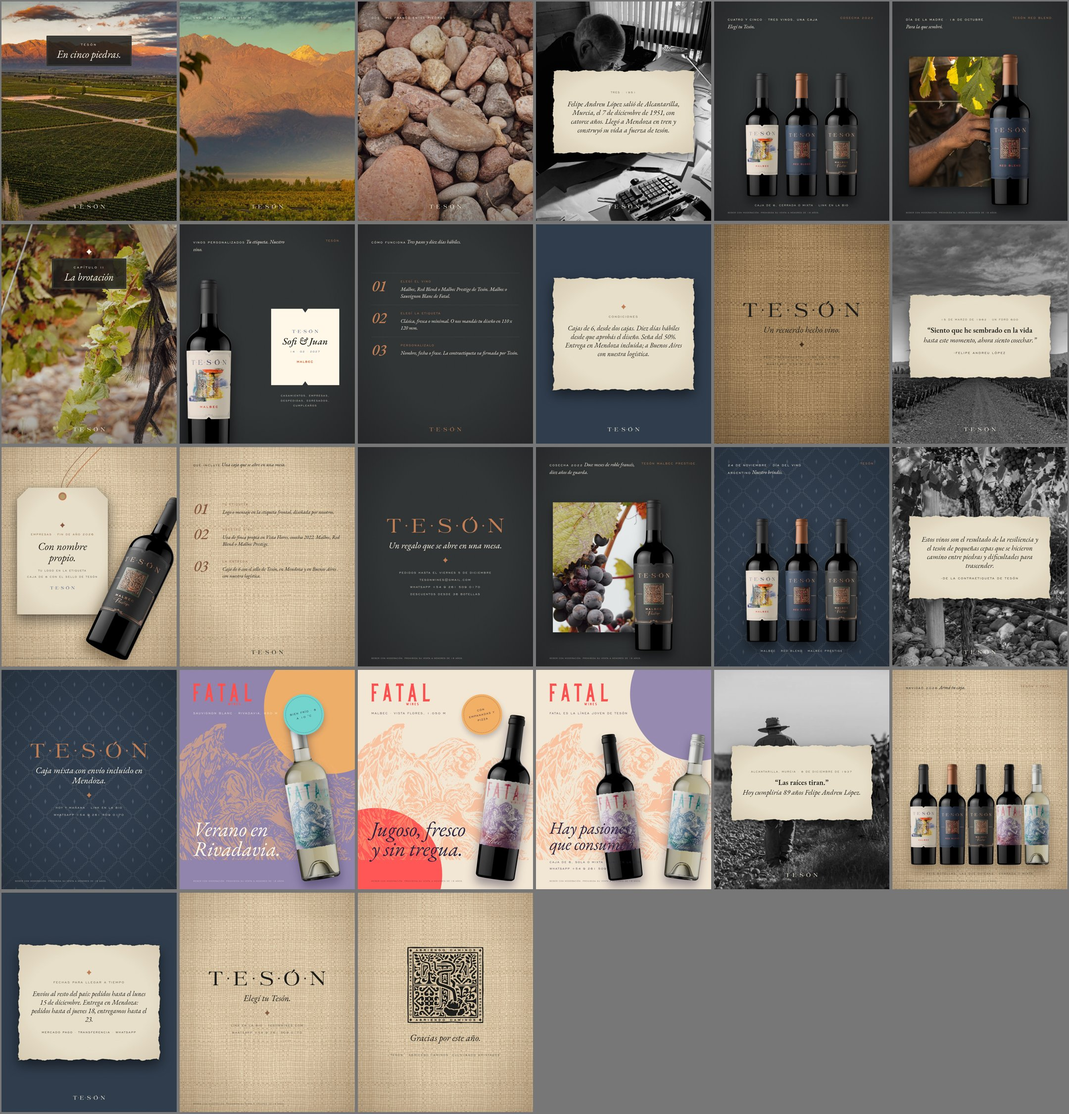
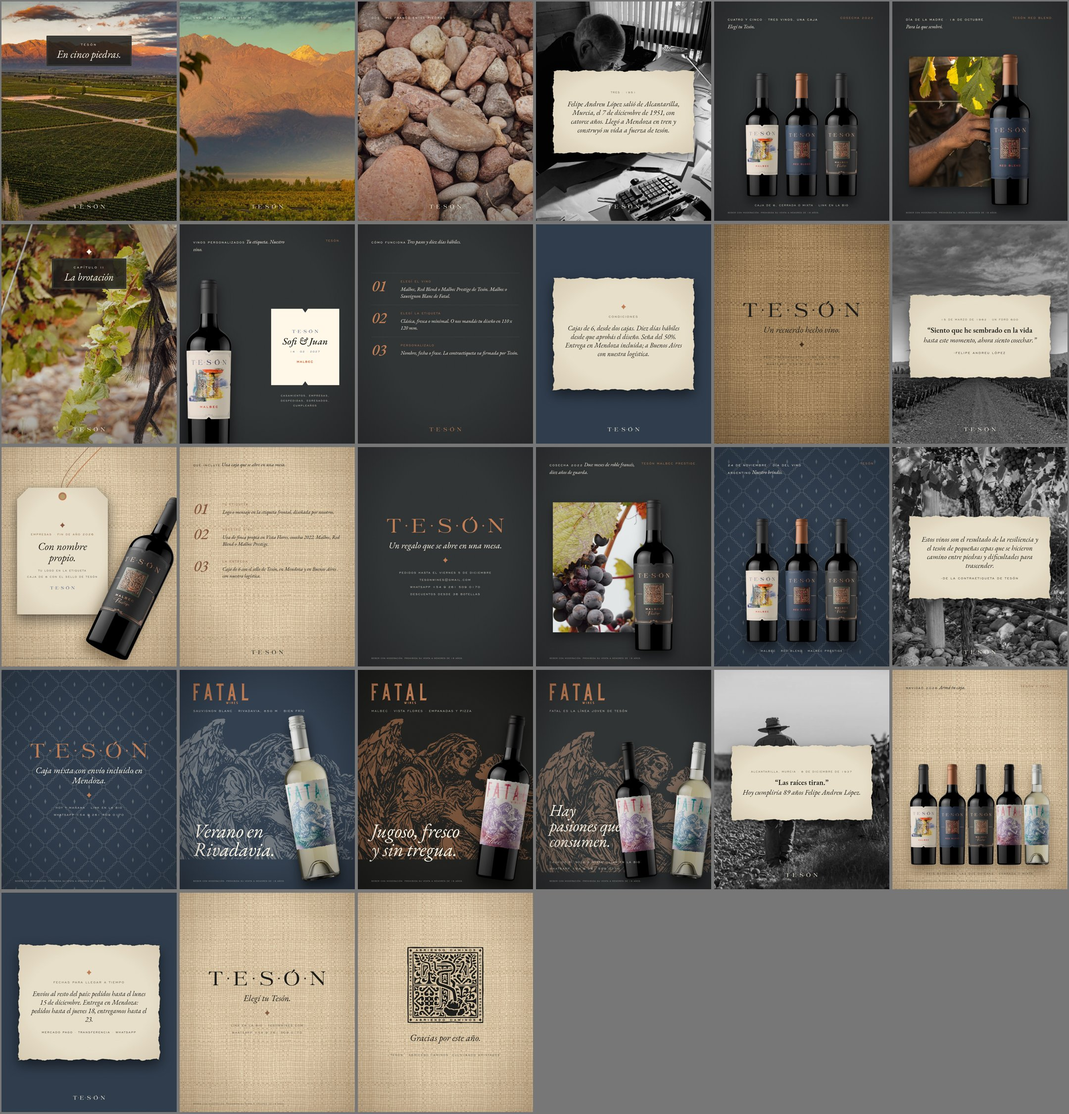
Tesón: Fatal en la paleta de la marca
El ángel y el logotipo de Fatal recoloreados en cobre y crema sobre noche,
tinta o carbón con textura; botella inclinada y titular grande. Se quitan
los bloques de color y los stickers.

Claude-Session: https://claude.ai/code/session_01WVF3yVjWa2YLnmgYLZbUr9

Changed region(s): [[0.1551, 0.5911, 0.6824, 0.8089]]

diff --git a/teson/plan-teson.html b/teson/plan-teson.html
@@ -240,7 +240,7 @@ Beber con moderación. Prohibida su venta a menores de 18 años.
     <div class="week"><div class="date"><b>11 nov</b>Semana 6 · Empresas · Carrusel</div><div><h3>Regalos de fin de año con nombre propio</h3><p>Caja de 6 con la etiqueta de la empresa. Pedidos hasta el viernes 5 de diciembre. Propuesta en 24 horas.</p><div class="thumbs"><img src="posts/s06-regalos-fin-de-ano-1.jpg" alt="Regalos con nombre propio"><img src="posts/s06-regalos-fin-de-ano-2.jpg" alt="Qué incluye"><img src="posts/s06-regalos-fin-de-ano-3.jpg" alt="Contacto"></div></div></div>
     <div class="week"><div class="date"><b>18 nov</b>Semana 7 · Vinos · Foto</div><div><h3>Doce meses de roble</h3><p>Malbec Prestige: 3.000 botellas, cosecha manual, roble francés, diez años de guarda.</p><div class="thumbs"><img src="posts/s07-doce-meses-de-roble-1.jpg" alt="Malbec Prestige"></div></div></div>
     <div class="week"><div class="date"><b>24 nov</b>Semana 8 · Marca · Reel + carrusel</div><div><h3>Día del Vino Argentino</h3><p>Brindis en video con los tres vinos, la frase de la casa y caja mixta con envío incluido en Mendoza por dos días.</p><div class="thumbs"><img src="posts/s08-dia-del-vino-argentino-1.jpg" alt="Los tres vinos sobre carbón"><img src="posts/s08-dia-del-vino-argentino-2.jpg" alt="Pequeñas cepas entre piedras"><img src="posts/s08-dia-del-vino-argentino-3.jpg" alt="Caja mixta"></div></div></div>
-    <div class="week"><div class="date"><b>2 dic</b>Semana 9 · Fatal · Carrusel</div><div><h3>Fatal: verano en Rivadavia</h3><p>La línea joven con su propio lenguaje: bloques de color, el ángel de la etiqueta, stickers. Sauvignon Blanc, Malbec y "Hay pasiones que consumen".</p><div class="thumbs"><img src="posts/s09-verano-en-rivadavia-1.jpg" alt="Fatal Sauvignon Blanc"><img src="posts/s09-verano-en-rivadavia-2.jpg" alt="Fatal Malbec"><img src="posts/s09-verano-en-rivadavia-3.jpg" alt="Hay pasiones que consumen"></div></div></div>
+    <div class="week"><div class="date"><b>2 dic</b>Semana 9 · Fatal · Carrusel</div><div><h3>Fatal: verano en Rivadavia</h3><p>La línea joven en la misma paleta, un poco más disruptiva: fondo oscuro con textura, el ángel de la etiqueta en grande en cobre o crema, botella inclinada y titular grande. Sauvignon Blanc, Malbec y "Hay pasiones que consumen".</p><div class="thumbs"><img src="posts/s09-verano-en-rivadavia-1.jpg" alt="Fatal Sauvignon Blanc"><img src="posts/s09-verano-en-rivadavia-2.jpg" alt="Fatal Malbec"><img src="posts/s09-verano-en-rivadavia-3.jpg" alt="Hay pasiones que consumen"></div></div></div>
     <div class="week"><div class="date"><b>8 dic</b>Semana 10 · Historia · Foto</div><div><h3>8 de diciembre de 1937</h3><p>El cumpleaños de Felipe Andreu López. En blanco y negro, como pide el manual. "Las raíces tiran." Firmado por Felipe.</p><div class="thumbs"><img src="posts/s10-8-de-diciembre-de-1937-1.jpg" alt="Las raíces tiran"></div></div></div>
     <div class="week"><div class="date"><b>16 dic</b>Semana 11 · Venta · Carrusel</div><div><h3>Armá tu caja</h3><p>Navidad: caja mixta de Tesón y Fatal. Envíos al interior hasta el 15, Mendoza hasta el 18.</p><div class="thumbs"><img src="posts/s11-arma-tu-caja-1.jpg" alt="Los cinco vinos"><img src="posts/s11-arma-tu-caja-2.jpg" alt="Fechas"><img src="posts/s11-arma-tu-caja-3.jpg" alt="Elegí tu Tesón"></div></div></div>
     <div class="week"><div class="date"><b>23 dic</b>Semana 12 · Comunidad · Reel</div><div><h3>Gracias por este año</h3><p>Lo mejor del trimestre en 15 s, cierre de año y anticipo de la cosecha 2027. Firmado por Felipe.</p><div class="thumbs"><img src="posts/s12-gracias-1.jpg" alt="Sello de Tesón: Gracias por este año"></div></div></div>

diff --git a/teson/contenido/build_posts.py b/teson/contenido/build_posts.py
@@ -289,35 +289,39 @@ def T_tag(s):
 
 
 def T_fatal(s):
-    """Fatal, la línea joven: bloque de color, el ángel de la etiqueta, botella inclinada, titular grande en itálica y un sticker."""
+    """Fatal, la línea joven, en la paleta de Tesón: fondo oscuro con textura, el ángel de la etiqueta en grande
+    (cobre o crema), botella inclinada, titular grande en itálica y un anillo de cobre con el dato."""
     v = s.get("variant", "sb")
     if v == "sb":
-        bgc, ink, circ, circ_pos, sticker_c = FAT["lav"], CREMA, FAT["orange"], "right:-260px;top:-180px", FAT["teal"]
+        bgc, angel_c, angel_op = NOCHE, CREMA, .30
         bottles = s.get("bottles") or [{"img": "fatal-sauvignon.webp", "tilt": -9, "h": 1020, "right": 90, "bottom": 60}]
     elif v == "mb":
-        bgc, ink, circ, circ_pos, sticker_c = FAT["cream"], FAT["ink"], FAT["red"], "left:-300px;bottom:-320px", FAT["orange"]
+        bgc, angel_c, angel_op = TINTA, COBRE, .55
         bottles = s.get("bottles") or [{"img": "fatal-malbec.webp", "tilt": 8, "h": 1020, "right": 90, "bottom": 60}]
     else:
-        bgc, ink, circ, circ_pos, sticker_c = FAT["cream"], FAT["ink"], FAT["lav"], "right:-320px;top:-260px", FAT["red"]
-        bottles = s.get("bottles") or [{"img": "fatal-malbec.webp", "tilt": -7, "h": 900, "right": 420, "bottom": 60},
-                                       {"img": "fatal-sauvignon.webp", "tilt": 7, "h": 900, "right": 60, "bottom": 60}]
-    angel = f'<img src="{img("fatal-angel.webp")}" alt="" style="position:absolute;left:{s.get("angel_x",-120)}px;top:{s.get("angel_y",330)}px;width:1300px;opacity:{s.get("angel_op",.55)};{"filter:hue-rotate(-18deg) saturate(1.3)" if v!="sb" else ""}">'
-    bots = "".join(f'<img src="{img(b["img"])}" alt="" style="position:absolute;right:{b["right"]}px;bottom:{b["bottom"]}px;height:{b["h"]}px;width:auto;transform:rotate({b["tilt"]}deg);transform-origin:50% 90%;filter:drop-shadow(0 40px 30px rgba(43,35,64,.45))">' for b in bottles)
-    sticker = ""
-    if s.get("sticker"):
-        sticker = (f'<div class="abs" style="left:{s.get("sticker_x",640)}px;top:{s.get("sticker_y",150)}px;width:250px;height:250px;border-radius:50%;background:{sticker_c};transform:rotate(-12deg);display:flex;align-items:center;justify-content:center;text-align:center;padding:30px;box-shadow:0 20px 30px rgba(43,35,64,.25)">'
-                   f'<div class="abs" style="inset:12px;border-radius:50%;border:2px dashed rgba(43,35,64,.55)"></div>'
-                   f'<div class="sc" style="font-size:20px;line-height:1.5;color:{FAT["ink"]};letter-spacing:.18em">{html.escape(s["sticker"])}</div></div>')
-    lines = "".join(f'<div class="sc" style="font-size:20px;color:{ink};opacity:.85">{html.escape(l)}</div>' for l in s.get("lines", []))
+        bgc, angel_c, angel_op = CARBON, "#D2A283", .42
+        bottles = s.get("bottles") or [{"img": "fatal-malbec.webp", "tilt": -6, "h": 840, "right": 330, "bottom": 70},
+                                       {"img": "fatal-sauvignon.webp", "tilt": 6, "h": 840, "right": 40, "bottom": 70}]
+    ink = CREMA
+    angel_img = {CREMA: "fatal-angel-crema.png", COBRE: "fatal-angel-cobre.png"}.get(angel_c, "fatal-angel-claro.png")
+    angel = (f'<img src="{img(angel_img)}" alt="" style="position:absolute;left:{s.get("angel_x",-140)}px;top:{s.get("angel_y",300)}px;width:1340px;opacity:{s.get("angel_op",angel_op)}">')
+    bots = "".join(f'<img src="{img(b["img"])}" alt="" style="position:absolute;right:{b["right"]}px;bottom:{b["bottom"]}px;height:{b["h"]}px;width:auto;transform:rotate({b["tilt"]}deg);transform-origin:50% 90%;filter:drop-shadow(0 44px 34px rgba(0,0,0,.6))">' for b in bottles)
+    ring = ""
+    if s.get("ring"):
+        ring = (f'<div class="abs" style="left:{s.get("sticker_x",84)}px;top:{s.get("sticker_y",300)}px;width:210px;height:210px;border-radius:50%;border:2px solid {COBRE};transform:rotate(-10deg);display:flex;align-items:center;justify-content:center;text-align:center;padding:28px">'
+                f'<div class="abs" style="inset:10px;border-radius:50%;border:1px solid rgba(193,126,85,.5)"></div>'
+                f'<div class="sc" style="font-size:19px;line-height:1.5;color:{COBRE};letter-spacing:.2em">{html.escape(s["sticker"])}</div></div>')
+    lines = "".join(f'<div class="sc" style="font-size:20px;color:rgba(255,247,232,.85)">{html.escape(l)}</div>' for l in s.get("lines", []))
     parts = [f'<div class="abs" style="inset:0;background:{bgc}"></div>',
-             f'<div class="abs" style="{circ_pos};width:820px;height:820px;border-radius:50%;background:{circ};opacity:.95"></div>',
-             angel, bots, sticker,
-             f'<img src="{img("fatal-logo.png")}" alt="" style="position:absolute;left:84px;top:84px;width:360px">',
-             f'<div class="abs sc" style="left:84px;top:250px;color:{ink};opacity:.85">{html.escape(s.get("sc",""))}</div>',
-             f'<div class="abs" style="left:84px;bottom:{s.get("hl_bottom",190)}px;max-width:{s.get("hl_w",620)}px;font-style:italic;font-size:{s.get("hl_size",128)}px;line-height:.95;color:{ink};letter-spacing:-.01em">{s["it"]}</div>',
+             '<div class="abs" style="inset:0;background:url(noise.svg);opacity:.14;mix-blend-mode:overlay"></div>',
+             '<div class="abs" style="inset:0;background:repeating-linear-gradient(0deg,rgba(255,255,255,.025) 0 1px,transparent 1px 3px),repeating-linear-gradient(90deg,rgba(255,255,255,.02) 0 1px,transparent 1px 3px)"></div>',
+             angel, bots, ring,
+             f'<img src="{img("fatal-logo-cobre.png")}" alt="" style="position:absolute;left:84px;top:84px;width:340px">',
+             f'<div class="abs sc" style="left:84px;top:236px;color:rgba(255,247,232,.8)">{html.escape(s.get("sc",""))}</div>',
+             f'<div class="abs" style="left:84px;bottom:{s.get("hl_bottom",190)}px;max-width:{s.get("hl_w",600)}px;font-style:italic;font-size:{s.get("hl_size",120)}px;line-height:.95;color:{ink};letter-spacing:-.01em">{s["it"]}</div>',
              (f'<div class="abs" style="left:84px;bottom:110px;display:flex;flex-direction:column;gap:6px">{lines}</div>' if lines else ""),
-             '<div class="abs" style="inset:0;background:url(noise.svg);opacity:.10;mix-blend-mode:overlay;pointer-events:none"></div>',
-             legal_on(s, ink)]
+             '<div class="abs" style="inset:0;background:radial-gradient(ellipse at 50% 50%,rgba(0,0,0,0) 55%,rgba(0,0,0,.35) 100%);pointer-events:none"></div>',
+             legal(s)]
     return page("".join(parts))
 
 

diff --git a/teson/estilo-instagram.md b/teson/estilo-instagram.md
@@ -21,7 +21,7 @@ La cuenta ya tenía tres fondos con textura (lienzo carbón, papel, arpillera) y
 - **Arpillera** (`assets/tex/arpillera.jpg`, generada a partir de la del post de noviembre 2024): fondo de las piezas de regalo, caja y comunidad. Con ella van la etiqueta colgante de papel con hilo de cobre (empresas, Día de la Mujer, Día del Padre), las cinco botellas de Navidad y el sello en tinta (Gracias, Tres años). Texto en tinta, acentos en cobre hondo.
 - **Azulejo sobre noche** (patrón `azulejo.svg`, cuadrifolio y estrellas en crema al 24%): la tradición murciana de la etiqueta, para los cierres de marca y el Día del Vino.
 - **Papel rasgado** también sin foto, sobre noche o carbón, para condiciones y fechas.
-- **Fatal, la línea joven,** habla distinto y se nota: bloques de color plenos (lavanda, crema, coral, naranja), el ángel de la etiqueta en grande y ghosteado, botella inclinada, titular grande en itálica, un sticker redondo girado con el dato ("Bien frío · 8 a 10 °C", "Malbec con hielo") y grano fino. Logotipo FATAL en rojo arriba a la izquierda. Sin versalitas espaciadas largas, sin sello.
+- **Fatal, la línea joven,** se distingue sin salirse de la paleta: fondo noche (Sauvignon Blanc), tinta (Malbec) o carbón (los dos) con la misma textura de lienzo; el ángel de la etiqueta en grande, recortado por los bordes, en cobre o en crema y ghosteado; la botella inclinada; el titular grande en itálica; un anillo fino de cobre, girado, con el dato ("Bien frío · 8 a 10 °C", "Con empanadas y pizza"); y el logotipo FATAL en cobre. Nada de bloques de color ni stickers de colores: lo disruptivo lo ponen la figura, la inclinación y el tamaño del titular.
 
 ## Cómo lo aplican los templates
 
